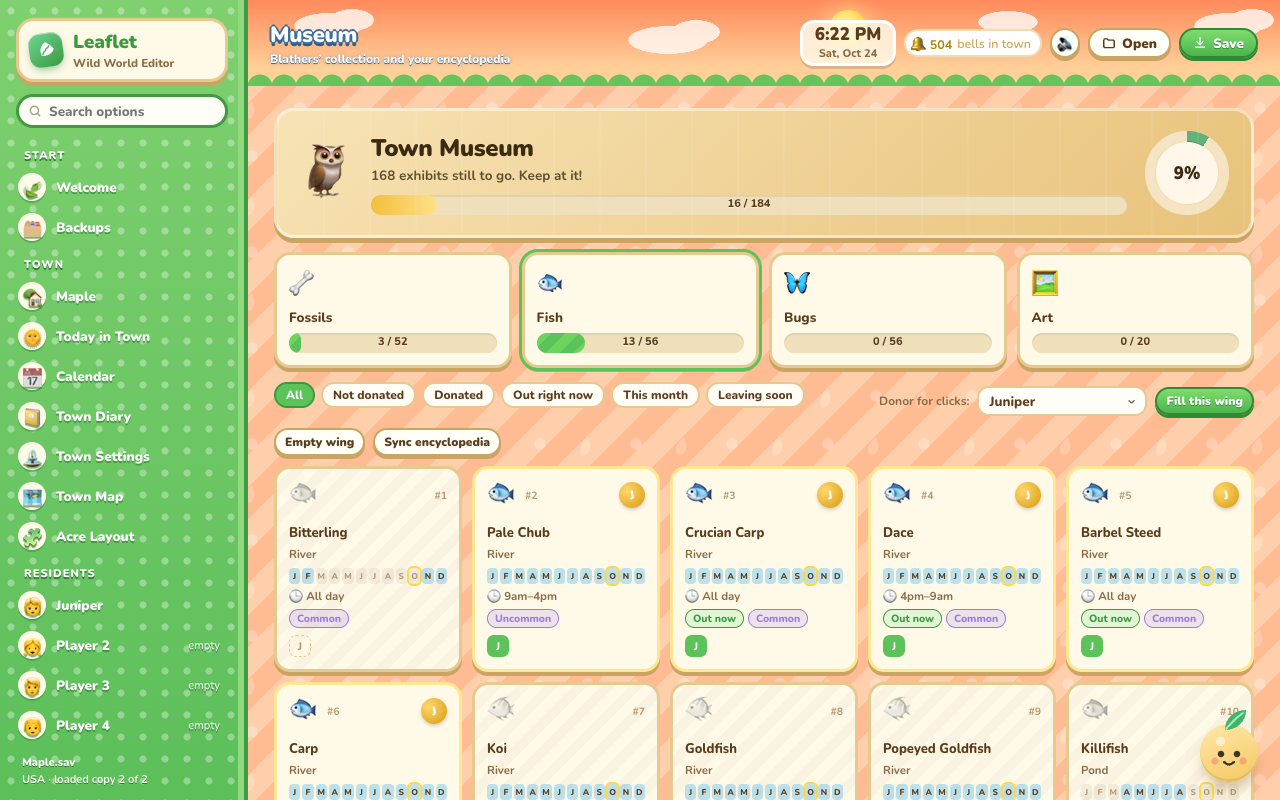
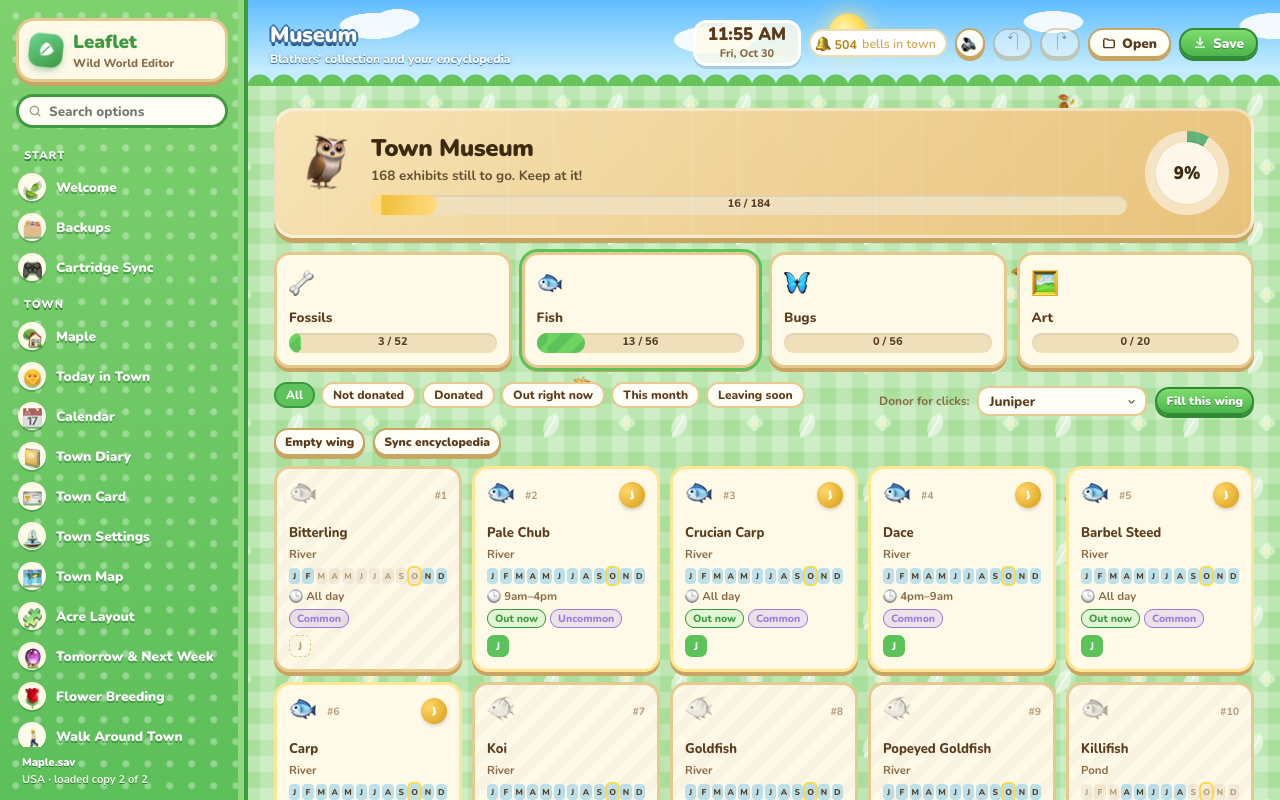
2.0 screenshots, Match my local time, and two readability fixes
- New screenshots: Leaflet on phones (from the 3DS), the phone QR code, SD cards found, updates and app data, Walk
  Around Town, Flower Breeding, Badges & Towns, Tomorrow & Next Week; the older ones retaken in the 2.0 look. All
  without a ROM, on a renamed demo town
- README: what's new in 2.0, with the gallery
- Town Records > Game clock: Match my local time sets the game clock to this device's time and moves the dates the
  game counts from (last update, next week, turnip week and purchase, weather day, last played) by the same days,
  so turnips keep and nothing reads as time travel
- Locked badges stay solid so their text reads; banner subtitles are outlined so they read on a daytime sky

Changed region(s): [[0.0, 0.0, 1.0, 1.0], [0.0, 0.0, 0.0625, 0.0312]]

diff --git a/js/gameclock.js b/js/gameclock.js
@@ -44,5 +44,37 @@
   const gameTime = (s, wall) => new Date(wall + offset(s) * 1000);
   const showGameTime = d => d.toLocaleString([], { weekday: 'short', month: 'short', day: 'numeric', hour: 'numeric', minute: '2-digit', timeZone: 'UTC' });
 
-  root.WW_GAMECLOCK = { OFFSET, offset, setOffset, wallNow, parseWall, shift, span, gameTime, showGameTime };
+  // ---------- matching local time ----------
+  // The dates the game measures elapsed time from: the town's last update and the start of next week (TownState),
+  // the turnip week and the day the turnips were bought, the weather's day, and each resident's last-played date
+  // (in the town state and on the resident). Moving the clock moves these by the same number of days, so the game
+  // sees no time pass and none go backwards: turnips keep, weeds don't spread, nobody moves out, and nothing reads as
+  // time travel.
+  const DAY = 86400000;
+  const dmy = o => ({ get: s => { const d = s.u8(o), m = s.u8(o + 1), y = s.u8(o + 2); return m >= 1 && m <= 12 && d >= 1 ? Date.UTC(2000 + y, m - 1, d) : null; },
+    set: (s, t) => { const x = new Date(t); s.set8(o, x.getUTCDate()); s.set8(o + 1, x.getUTCMonth() + 1); s.set8(o + 2, x.getUTCFullYear() - 2000); } });
+  const packed = o => ({ get: s => { const v = s.u16(o), y = v & 0x7F, m = (v >> 7) & 0xF, d = v >> 11; return m >= 1 && m <= 12 && d >= 1 ? Date.UTC(2000 + y, m - 1, d) : null; },
+    set: (s, t) => { const x = new Date(t); s.set16(o, ((x.getUTCFullYear() - 2000) & 0x7F) | ((x.getUTCMonth() + 1) << 7) | (x.getUTCDate() << 11)); } });
+  function trackedDates(s) {
+    const out = [dmy(0x15E54), dmy(0x15E5C), dmy(0x15F4C), dmy(0x15F50), dmy(0x15F66)];
+    for (let p = 0; p < 4; p++) if (s.playerExists(p)) out.push(dmy(0x15EAC + p * 4), packed(s.playerBase(p) + 0x2216));
+    return out;
+  }
+  const dayOf = t => Math.floor(t / DAY);
+  // How far the game's clock is from this device's (seconds; positive = ahead), for a system whose clock reads
+  // systemAhead seconds ahead of this device (0: a DS set to the same time).
+  const fromLocal = (s, systemAhead = 0) => offset(s) + systemAhead;
+  // Sets the game clock to this device's time and moves the tracked dates with it. Returns what changed.
+  function matchLocal(s, systemAhead = 0) {
+    const wall = wallNow(), before = gameTime(s, wall + systemAhead * 1000).getTime(), target = -systemAhead;
+    const seconds = target - offset(s);
+    if (Math.abs(seconds) < 60) return { seconds: 0, days: 0 };
+    const days = dayOf(before + seconds * 1000) - dayOf(before);
+    setOffset(s, target);
+    // Only real dates near the game's own (placeholders such as 1/1/2000 in unused slots stay as they are).
+    if (days) for (const f of trackedDates(s)) { const t = f.get(s); if (t != null && Math.abs(dayOf(t) - dayOf(before)) <= 400) f.set(s, t + days * DAY); }
+    return { seconds, days };
+  }
+
+  root.WW_GAMECLOCK = { OFFSET, offset, setOffset, wallNow, parseWall, shift, span, gameTime, showGameTime, fromLocal, matchLocal };
 })(typeof window !== 'undefined' ? window : this);

diff --git a/js/views-records.js b/js/views-records.js
@@ -172,6 +172,14 @@
         card(
           row('Offset from the DS clock', 'The game’s time is your system clock plus this offset. Changing it is time travel, the same as setting the clock in the game.', clockEditor(s, refresh), CLOCK,
             { risk: 'med', why: 'Jumping ahead lets weeds grow, flowers wilt and villagers move, just like time travel in the game.' }),
+          (() => {
+            // Match my local time: the clock and the dates the game counts from move together (js/gameclock.js).
+            const GCK = window.WW_GAMECLOCK, off = GCK.fromLocal(s);
+            const state = Math.abs(off) < 60 ? 'The game’s clock already matches this device’s time.' : `The game is ${GCK.span(off)} ${off > 0 ? 'ahead of' : 'behind'} this device’s time. This sets it to your local time (for a DS showing the same time as this device) and moves the town’s saved dates with it, so turnips keep and the game doesn’t see any time travel.`;
+            return row('Match my local time', state, h('button', { class: 'btn small leaf', disabled: Math.abs(off) < 60, onclick: () => {
+              const r = GCK.matchLocal(s); sfx.pop(); toast(r.seconds ? `Game clock set to your local time${r.days ? `; saved dates moved ${Math.abs(r.days)} day${Math.abs(r.days) === 1 ? '' : 's'} with it` : ''}` : 'Already on your local time', '🕰'); refresh();
+            } }, '🕰 Match my local time'));
+          })(),
           row('Quick changes', 'Shift the game clock from where it is now.', h('span', { style: { display: 'flex', gap: '6px', flexWrap: 'wrap', justifyContent: 'flex-end' } },
             [[-1440, '−1 day'], [-60, '−1 hour'], [60, '+1 hour'], [1440, '+1 day'], [10080, '+1 week']].map(([d, label]) => h('button', { class: 'btn small', onclick: () => { s.set32(CLOCK, (s.u32(CLOCK) | 0) + d); sfx.click(); refresh(); } }, label)),
             h('button', { class: 'btn small leaf', onclick: () => { s.set32(CLOCK, 0); s.set16(CLOCK + 4, 0); sfx.pop(); toast('The game now follows the DS clock', '🕰'); refresh(); } }, 'Use DS time'))),

diff --git a/css/wildworld.css b/css/wildworld.css
@@ -197,7 +197,7 @@ html.tod-night .toolbar { background-image: radial-gradient(1.5px 1.5px at 20% 3
 .hero, :root[data-theme="dark"] .hero { background: linear-gradient(180deg, var(--sky-a, #5fbdff) 0%, var(--sky-b, #c4ecff) 52%, #6cc95f 53%, #4caf4f 100%) !important; }
 @media (prefers-color-scheme: dark) { :root:not([data-theme="light"]) .hero { background: linear-gradient(180deg, var(--sky-a, #5fbdff) 0%, var(--sky-b, #c4ecff) 52%, #6cc95f 53%, #4caf4f 100%) !important; } }
 .hero h2 { text-shadow: 0 2px 0 #3a6fa0, 2px 0 0 #3a6fa0, -2px 0 0 #3a6fa0, 0 -2px 0 #3a6fa0, 0 4px 0 #2d5a85; font-weight: 900; }
-.hero p { text-shadow: 0 1px 0 #3a6fa0; font-weight: 800; }
+.hero p { text-shadow: 0 1.5px 0 #3a6fa0, 1.5px 0 0 #3a6fa0, -1.5px 0 0 #3a6fa0, 0 -1.5px 0 #3a6fa0, 0 3px 0 #2d5a85; font-weight: 800; opacity: 1; }   /* outlined like the title, so it reads on a bright daytime sky */
 .sidebar { position: relative; z-index: 3; }
 .ww-particles { z-index: 0; }
 
@@ -734,7 +734,8 @@ canvas.model3d:active { cursor: grabbing; }
 .fl-table td.dim { background: #0000000a; }
 .fl-cell { display: flex; align-items: center; }
 .badge-grid { display: grid; grid-template-columns: repeat(auto-fill, minmax(180px, 1fr)); gap: 10px; margin-bottom: 8px; }
-.badge-card { display: flex; flex-direction: column; gap: 3px; padding: 12px; border-radius: 14px; background: var(--card, #fffdf3); box-shadow: 0 3px 0 #0001; opacity: .62; }
+.badge-card { display: flex; flex-direction: column; gap: 3px; padding: 12px; border-radius: 14px; background: var(--card, #fffdf3); box-shadow: 0 3px 0 #0001; }
+.badge-card:not(.got) > * { opacity: .55; }   /* locked: the card stays solid so the text reads over the pattern */
 .badge-card.got { opacity: 1; box-shadow: 0 3px 0 #e2c57a, inset 0 0 0 2px #f1dc9b; }
 .badge-card .em { font-size: 26px; } .badge-card .muted { font-size: 11.5px; line-height: 1.35; }
 .vs-wrap { overflow-x: auto; }

diff --git a/README.md b/README.md
@@ -28,6 +28,14 @@ No other Wild World editor we know of has these:
   code and your turnips**. Every write is checked byte for byte, and the old save is kept first. Leaflet Link also
   **backs up and restores the game card on the 3DS alone**, gives the card a **health check**, and finds
   **TWiLight Menu++** saves on the 3DS's SD card. What you play on the real console joins the Town Diary.
+- 📱 **On your phone, straight from the 3DS.** Scan the QR code Leaflet Link shows and Leaflet opens on your phone or
+  tablet, already connected to your game card. Nothing to install.
+- 🚶 **Walk around your town in 3D**, or see it from above, lit by the game clock and the weather it rolled today.
+- 🌹 **Flower breeding with the game's own hybrid odds**, and the pairs already growing side by side in your town.
+- 🎖 **Badges and Town vs Town**: badges earned from what each save records, and your towns compared side by side.
+- 🔮 **Tomorrow & Next Week**: what the game has already decided (tomorrow's weather, the week's turnips, visitors).
+- 🔄 **Everything stays up to date together**: the apps update themselves from GitHub, Leaflet updates Leaflet Link on
+  the 3DS, and your settings and backups carry over.
 - ✨ **Editors for things nobody else touches**: Celeste's constellations, the bulletin board, the post office,
   furniture switches and gyroid beats, Mom's letters, villager hobbies, and every one of the game's event flags.
 
@@ -47,7 +55,20 @@ Japanese and Korean saves use a different layout and are not supported.
 
 ![Town overview](docs/screenshots/overview.png)
 
+![Leaflet on a phone, opened from Leaflet Link on the 3DS](docs/screenshots/phones.png)
+
 ![Town card](docs/screenshots/card.png)
+
+### New in 2.0
+
+| | |
+|---|---|
+| ![Leaflet on your phone](docs/screenshots/sync-phone.png) **Leaflet on your phone**: scan the code (or the one on the 3DS) to open Leaflet from Leaflet Link | ![Walk Around Town](docs/screenshots/town3d.png) **Walk Around Town**: your town in 3D, on foot or from above |
+| ![SD card found](docs/screenshots/sd-card.png) **SD cards, found for you**: saves and your ROM, offered as soon as the card goes in | ![Updates](docs/screenshots/updates.png) **Updates and app data**: daily update checks, and your data moves with you |
+| ![Flower Breeding](docs/screenshots/garden.png) **Flower Breeding**: the game's own hybrid odds | ![Badges and Towns](docs/screenshots/badges.png) **Badges & Towns**: badges from each save, towns side by side |
+| ![Tomorrow and Next Week](docs/screenshots/tomorrow.png) **Tomorrow & Next Week**: what the game has already rolled | |
+
+### Everything else
 
 | | |
 |---|---|
